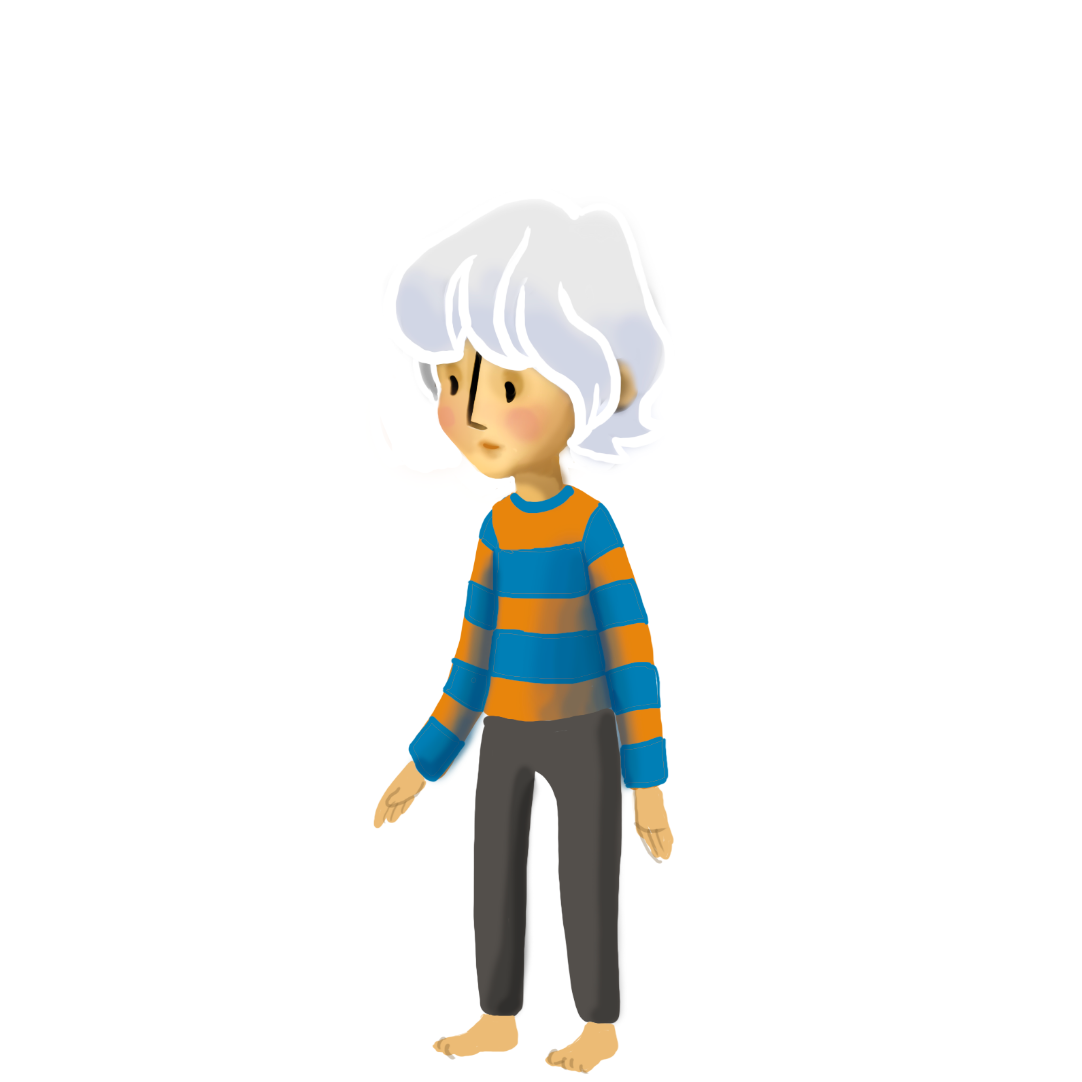
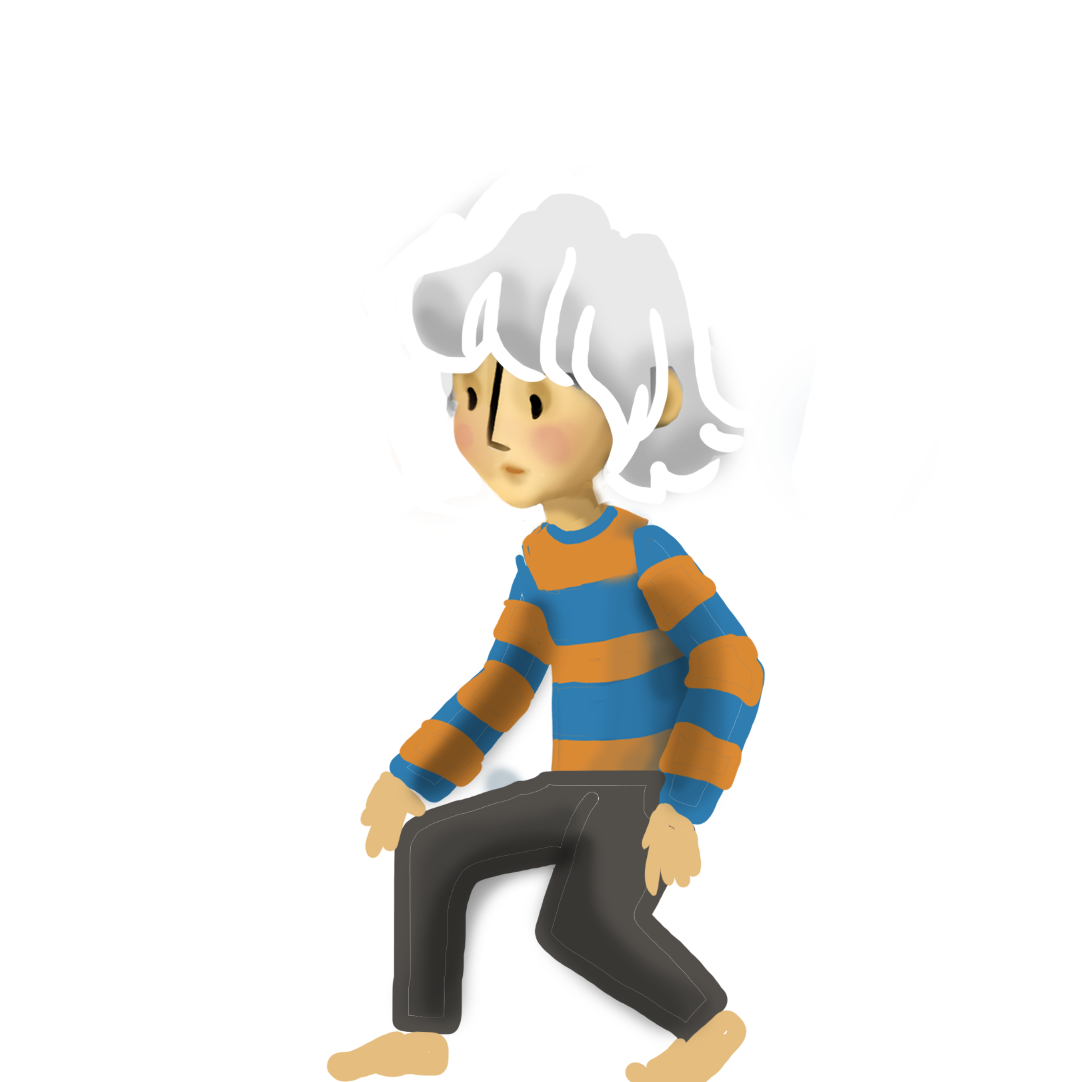
Add roll animation

Changed region(s): [[0.305, 0.244, 0.732, 1.0]]

diff --git a/Assets/Scripts/PlayerDemo.cs b/Assets/Scripts/PlayerDemo.cs
@@ -32,7 +32,7 @@ public class PlayerDemo : MonoBehaviour {
 	private static Vector2 GRAVITY_NORMAL = new Vector2(0, GRAVITY_ACCEL).normalized;
 
 	private const int NUM_RUN_FRAMES = 10;
-	private const int NUM_ROLL_FRAMES = 2;
+	private const int NUM_ROLL_FRAMES = 4;
 
 	private const float FRAME_TIME = 0.1f; //time in seconds per frame of animation
 
